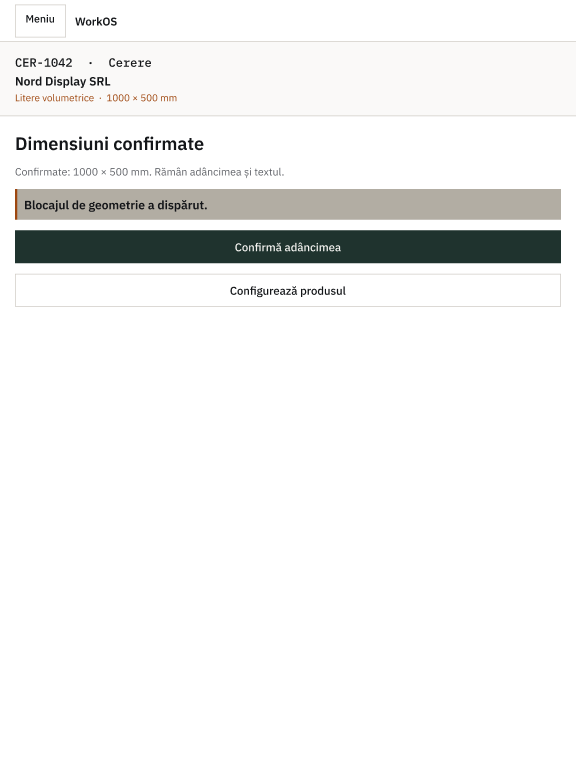
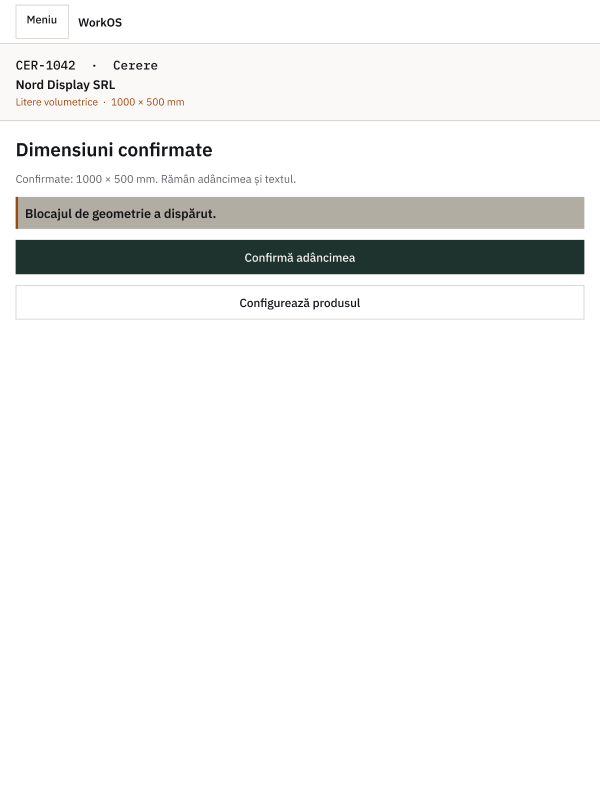
docs: amend UI20 R5A 768 compact shell continuity

diff --git a/docs/roadmap/WORKOS_V1_DELIVERY_ROADMAP.md b/docs/roadmap/WORKOS_V1_DELIVERY_ROADMAP.md
@@ -128,7 +128,7 @@ REQUESTS_INTEGRATED_ON_MAIN          = YES
 CERERI_PRODUCT_SHA                   = 03f2d747036b5ac219f283f5a969d575a9a707c9
 CERERI_OWNER_ACCEPT_RECORD           = ef4dd73514583bda2754456e2e5730ac96fc5f31
 NEXT_PROGRAM_PRIORITY                = WORKOS_UI_UX_2_0_E2E
-NEXT_RECOMMENDED_BUILD               = CHATGPT_INDEPENDENT_UI20_R5_REVIEW
+NEXT_RECOMMENDED_BUILD               = CHATGPT_INDEPENDENT_UI20_R5A_REVIEW
 UI20_PROGRAM                         = OWNER_AUTHORIZED_REFOUNDATION
 UI20_R1                              = RESEARCH_ACCEPTED_WITH_ADVISORIES
 UI20_R2                              = RESEARCH_ACCEPTED_WITH_ADVISORIES
@@ -141,6 +141,7 @@ UI20_R3_DOCUMENTATION                = DOCUMENTATION_READY
 UI20_R4                              = PAGE_PERSONALITY_AND_SEMANTIC_DYNAMICS_ACCEPTED_WITH_ADVISORIES
 UI20_R4A                             = ACCEPTED
 UI20_R5                              = NORTH_STAR_CONTINUITY_IN_REVIEW
+UI20_R5A                             = TARGETED_768_IN_REVIEW
 UI20_LEADING_VISUAL_HYPOTHESIS       = G_LIVING_FABRICATION_INSTRUMENT
 UI20_LEADING_IA_HYPOTHESIS           = IA3_QUIET_DESTINATIONS_OBJECT_CONTINUITY
 PRODUCT_SYSTEM_FC1B                  = SUPERSEDED_BEFORE_RUNTIME_IMPLEMENTATION
@@ -346,7 +347,7 @@ CERERI_RUNTIME = OWNER_ACCEPTED
 CERERI_INTEGRATED_ON_MAIN = YES
 REQUESTS_INTEGRATED_ON_MAIN = YES
 NEXT_PROGRAM_PRIORITY = WORKOS_UI_UX_2_0_E2E
-NEXT_RECOMMENDED_BUILD = CHATGPT_INDEPENDENT_UI20_R5_REVIEW
+NEXT_RECOMMENDED_BUILD = CHATGPT_INDEPENDENT_UI20_R5A_REVIEW
 UI20_PROGRAM = OWNER_AUTHORIZED_REFOUNDATION
 PRODUCT_SYSTEM_FC1B = SUPERSEDED_BEFORE_RUNTIME_IMPLEMENTATION
 UI20_CURRENT_VISUAL_DIRECTION = NOT_SELECTED
@@ -508,7 +509,7 @@ CERERI_RUNTIME                           = OWNER_ACCEPTED
 CERERI_INTEGRATED_ON_MAIN                = YES
 REQUESTS_INTEGRATED_ON_MAIN              = YES
 NEXT_PROGRAM_PRIORITY                    = WORKOS_UI_UX_2_0_E2E
-NEXT_RECOMMENDED_BUILD                   = CHATGPT_INDEPENDENT_UI20_R5_REVIEW
+NEXT_RECOMMENDED_BUILD                   = CHATGPT_INDEPENDENT_UI20_R5A_REVIEW
 UI20_PROGRAM                             = OWNER_AUTHORIZED_REFOUNDATION
 UI20_R1                                  = RESEARCH_ACCEPTED_WITH_ADVISORIES
 UI20_R2                                  = RESEARCH_ACCEPTED_WITH_ADVISORIES
@@ -690,7 +691,7 @@ Owner-authorized experience refoundation. Not a domain/backend rebuild. Not Prod
 ```text
 UI20_PROGRAM                      = OWNER_AUTHORIZED_REFOUNDATION
 NEXT_PROGRAM_PRIORITY             = WORKOS_UI_UX_2_0_E2E
-NEXT_RECOMMENDED_BUILD            = CHATGPT_INDEPENDENT_UI20_R5_REVIEW
+NEXT_RECOMMENDED_BUILD            = CHATGPT_INDEPENDENT_UI20_R5A_REVIEW
 UI20_R1                           = RESEARCH_ACCEPTED_WITH_ADVISORIES
 UI20_R2                           = RESEARCH_ACCEPTED_WITH_ADVISORIES
 UI20_R2_DOCUMENTATION             = DOCUMENTATION_READY
@@ -701,6 +702,7 @@ S1_A                              = STRUCTURAL_BASE_ACCEPTED
 UI20_R4                           = PAGE_PERSONALITY_AND_SEMANTIC_DYNAMICS_ACCEPTED_WITH_ADVISORIES
 UI20_R4A                          = ACCEPTED
 UI20_R5                           = NORTH_STAR_CONTINUITY_IN_REVIEW
+UI20_R5A                          = TARGETED_768_IN_REVIEW
 UI20_LEADING_VISUAL_HYPOTHESIS    = G_LIVING_FABRICATION_INSTRUMENT
 UI20_LEADING_IA_HYPOTHESIS        = IA3_QUIET_DESTINATIONS_OBJECT_CONTINUITY
 UI_GENERAL_REDESIGN_FOR_V1        = CLOSED_FOR_V1
@@ -718,7 +720,7 @@ HISTORICAL_FIGMA                  = 1ev5lg7m2Ze1h3Vqmax8ho
 
 `UI_GENERAL_REDESIGN = CLOSED_FOR_V1` remains the historical V3 closure. Living direction is the Owner UI20 reset. FC0/FC1 records stay evidence. Agents must not resume UI-FC1B React from older flags. R1 did not select a visual direction or IA.
 
-R2 is `RESEARCH_ACCEPTED_WITH_ADVISORIES`. UI20-R3 is `CHARACTER_PROOF_ACCEPTED_WITH_ADVISORIES`. S1-A is the accepted structural base. UI20-R4 is `PAGE_PERSONALITY_AND_SEMANTIC_DYNAMICS_ACCEPTED_WITH_ADVISORIES`. UI20-R4A is `ACCEPTED`. UI20-R5 is `NORTH_STAR_CONTINUITY_IN_REVIEW`. G and IA-3 remain the leading direction, not Owner-accepted final visual direction or IA. The next recommended step is `CHATGPT_INDEPENDENT_UI20_R5_REVIEW`.
+R2 is `RESEARCH_ACCEPTED_WITH_ADVISORIES`. UI20-R3 is `CHARACTER_PROOF_ACCEPTED_WITH_ADVISORIES`. S1-A is the accepted structural base. UI20-R4 is `PAGE_PERSONALITY_AND_SEMANTIC_DYNAMICS_ACCEPTED_WITH_ADVISORIES`. UI20-R4A is `ACCEPTED`. UI20-R5 is `NORTH_STAR_CONTINUITY_IN_REVIEW`. G and IA-3 remain the leading direction, not Owner-accepted final visual direction or IA. The next recommended step is `CHATGPT_INDEPENDENT_UI20_R5A_REVIEW`.
 
 Research record: `docs/worklog/WORKOS_UI_UX_2_0_E2E_R0_REFOUNDATION.md`, `docs/worklog/WORKOS_UI_UX_2_0_E2E_R1_DEEP_RESEARCH.md`, `docs/worklog/WORKOS_UI_UX_2_0_E2E_R2_ART_FABRICATION_SYNTHESIS.md`, `docs/worklog/WORKOS_UI_UX_2_0_E2E_R3_CHARACTER_PROOF.md`, `docs/worklog/WORKOS_UI_UX_2_0_E2E_R4_PAGE_PERSONALITY_DYNAMICS.md`, `docs/worklog/WORKOS_UI_UX_2_0_E2E_R5_NORTH_STAR_CONTINUITY.md`.
 

diff --git a/docs/worklog/WORKOS_UI_UX_2_0_E2E_R5_NORTH_STAR_CONTINUITY.md b/docs/worklog/WORKOS_UI_UX_2_0_E2E_R5_NORTH_STAR_CONTINUITY.md
@@ -4,6 +4,7 @@
 PROGRAM = WORKOS_UI_UX_2_0_E2E
 WAVE = UI20_R5_NORTH_STAR_E2E_OBJECT_CONTINUITY
 STATUS = NORTH_STAR_CONTINUITY_IN_REVIEW
+UI20_R5A = TARGETED_768_IN_REVIEW
 UI20_R4 = PAGE_PERSONALITY_AND_SEMANTIC_DYNAMICS_ACCEPTED_WITH_ADVISORIES
 UI20_R4A = ACCEPTED
 S1_A = STRUCTURAL_BASE_ACCEPTED
@@ -19,7 +20,7 @@ REACT = HOLD
 MASTER_POLISH = HOLD
 FIGMA_LIBRARY_PUBLISH = NO
 CURSOR_MAY_NOT_OWNER_ACCEPT = YES
-NEXT_STEP = CHATGPT_INDEPENDENT_UI20_R5_REVIEW
+NEXT_STEP = CHATGPT_INDEPENDENT_UI20_R5A_REVIEW
 ```
 
 ```text
@@ -84,11 +85,11 @@ Do not manufacture 8.5. Wiring is real. Whether the connected path feels like on
 
 | Criterion | Score | Note |
 | --- | ---: | --- |
-| CROSS_PAGE_CONTINUITY | 8.1 | Same-page NS prototype; object hierarchy holds |
+| CROSS_PAGE_CONTINUITY | 8.2 | Same-page NS prototype; 768 compact shell now matches |
 | WORKOS_SIGNATURE | 8.2 | Family + transformation; not unique if nouns swap |
-| PAGE_PERSONALITY | 8.3 | Instruments not flattened |
+| PAGE_PERSONALITY | 8.3 | Instruments not flattened; Config 768 keeps a part strip |
 | OPERATOR_SPEED | 8.3 | Next action stays local and 44px |
-| NAVIGATION_PLEASURE | 8.1 | Top nav is destination map; journey is not a second nav |
+| NAVIGATION_PLEASURE | 8.2 | Top nav is destination map; 768 uses Meniu, not desktop destinations |
 | GENERIC_SAAS_RISK | 2 | Connected screens, still research |
 | MUSEUM_RISK | 1 | No new motif |
 | DESIGNER_TOOL_RISK | 1 | Bench ≠ CAD; station ≠ HMI |
@@ -96,3 +97,19 @@ Do not manufacture 8.5. Wiring is real. Whether the connected path feels like on
 ## Holds
 
 React, library publish, Master Polish, and Owner accept of final visual direction / IA stay closed.
+
+## R5A — 768 compact shell
+
+Corrected in place. Not a new wave.
+
+| Surface | Node | Shell |
+| --- | --- | --- |
+| Cerere | `96:1267` | Meniu · kept |
+| Config | `96:1285` | Meniu · part strip `105:6` · return `105:15` → `96:1267` |
+| Ofertă | `96:1306` | desktop Destinations hidden · MobileChrome `105:2` |
+| Lucrare | `96:1366` | Meniu · kept |
+| Atelier | `96:1405` | Meniu · kept · row actions 44px |
+| Exec | `96:1431` | Meniu · return `99:4` → `96:1366` |
+| Shell comparison | `106:2` | six compact headers |
+
+Advisory: 768 Ofertă freeze still opens Lucrare (`96:1366`); there is no frozen 768 sibling. Ofertă stays denser than the other instruments. Cerere / Config chrome still say WorkOS; those frames already passed and were not redesigned.

diff --git a/docs/worklog/ui20-r5/10-decision-matrix.md b/docs/worklog/ui20-r5/10-decision-matrix.md
@@ -4,11 +4,11 @@ Cursor estimates after the connected prototype. Not Owner truth. Do not manufact
 
 | Criterion | Score | Note |
 | --- | ---: | --- |
-| CROSS_PAGE_CONTINUITY | 8.1 | One-page NS prototype; personality sources stay on 10/20 |
+| CROSS_PAGE_CONTINUITY | 8.2 | One-page NS prototype; 768 shell now coherent |
 | PAGE_PERSONALITY | 8.3 | Six instruments remain classifiable |
 | WORKOS_SIGNATURE | 8.2 | Object + transformation; noun-swap still partly works |
 | OPERATOR_SPEED | 8.3 | Next action local |
-| NAVIGATION_PLEASURE | 8.1 | Top nav ≠ journey strip |
+| NAVIGATION_PLEASURE | 8.2 | Top nav ≠ journey strip; 768 Meniu only |
 | FIRST_3_SECONDS | 8.3 | Object / where / work / next parse first |
 | GENERIC_SAAS_RISK | 2 | |
 | MUSEUM_RISK | 1 | |
@@ -19,8 +19,8 @@ Six-up `99:407` (wordmark / H1 / accent off): instruments stay classifiable and 
 North Star character test: the path is one fixture through dedicated instruments, not six unrelated SaaS pages. It is not yet a finished product OS. Independent review decides.
 
 ```text
-G_POST_R5 = LEADING_DIRECTION_FOR_R5 / NOT_OWNER_ACCEPTED
-IA3_POST_R5 = LEADING_DIRECTION_FOR_R5 / NOT_OWNER_ACCEPTED
-CURSOR_RECOMMENDATION = HOLD_FOR_INDEPENDENT_REVIEW
-NEXT_STEP = CHATGPT_INDEPENDENT_UI20_R5_REVIEW
+G_POST_R5A = LEADING_DIRECTION / NOT_OWNER_ACCEPTED
+IA3_POST_R5A = LEADING_DIRECTION / NOT_OWNER_ACCEPTED
+CURSOR_RECOMMENDATION = HOLD_FOR_INDEPENDENT_R5A_REVIEW
+NEXT_STEP = CHATGPT_INDEPENDENT_UI20_R5A_REVIEW
 ```

diff --git a/docs/worklog/ui20-r5/06-responsive-dark.md b/docs/worklog/ui20-r5/06-responsive-dark.md
@@ -6,7 +6,21 @@
 | 1280 | `96:877` | `96:960` | `96:1046` | `96:1106` | `96:1165` | `96:1234` |
 | 768 | `96:1267` | `96:1285` | `96:1306` | `96:1366` | `96:1405` | `96:1431` |
 
-768 keeps Meniu, current object, current work, next 44px action, and a return path. Ofertă 1280/768 are width-adapted clones of the 1440 artifact, not a second aesthetic. Config 768 compresses the bench to depth confirmation plus Pregătește oferta. Exec 768 is 900 tall and now shows LUC-88 in MobileChrome.
+R5A: all six 768 instruments use a compact shell. Live proof, not a documentation claim.
+
+| Check | Live |
+| --- | --- |
+| Meniu | PASS on all six |
+| Desktop destination row | NO — Ofertă Destinations `96:1307` hidden |
+| Current object | PASS |
+| Current work / state | PASS |
+| Primary ≥ 44px | PASS |
+| Config return | `105:15` → `96:1267` |
+| Exec return | `99:4` → `96:1366` |
+| Config construction cue | Față / **Volum** / Spate / Iluminare `105:6` |
+| Ofertă density | denser than siblings; line wraps; value stays dominant |
+
+Ofertă 1280 remains a width-adapted 1440 clone. Exec 768 is 900 tall and shows LUC-88 in MobileChrome. Shell comparison: `106:2`.
 
 Dark continuity trio:
 

diff --git a/docs/worklog/ui-20/FRAMES.md b/docs/worklog/ui-20/FRAMES.md
@@ -9,6 +9,7 @@ S1_A = STRUCTURAL_BASE_ACCEPTED
 R4_STATUS = PAGE_PERSONALITY_AND_SEMANTIC_DYNAMICS_ACCEPTED_WITH_ADVISORIES
 R4A = ACCEPTED
 R5_STATUS = NORTH_STAR_CONTINUITY_IN_REVIEW
+R5A_STATUS = TARGETED_768_IN_REVIEW
 FIGMA_FILE = WorkOS UI UX 2.0 — E2E
 FIGMA_FILE_KEY = 0XP0yGa1siWQdTTL7ou8xz
 FIGMA_URL = https://www.figma.com/design/0XP0yGa1siWQdTTL7ou8xz
@@ -208,6 +209,11 @@ Personality sources stay on 10 / 20. Connected prototype is clones on 80. Fixtur
 | Lucrare dark | `96:1517` |
 | Exec advanced dark | `96:1576` |
 | Six-up logo/H1/accent off | `99:407` |
+| Ofertă 768 MobileChrome | `105:2` |
+| Config 768 construction parts | `105:6` |
+| Config 768 Înapoi la cerere | `105:15` → `96:1267` |
+| Exec 768 Înapoi la lucrare | `99:4` → `96:1366` |
+| 768 shell comparison | `106:2` |
 
 ## R5 connected verbs (page 80)
 

diff --git a/docs/architecture/WORKOS_UI_UX_DIRECTION_CANON.md b/docs/architecture/WORKOS_UI_UX_DIRECTION_CANON.md
@@ -162,7 +162,8 @@ S1_A                               = STRUCTURAL_BASE_ACCEPTED
 UI20_R4                            = PAGE_PERSONALITY_AND_SEMANTIC_DYNAMICS_ACCEPTED_WITH_ADVISORIES
 UI20_R4A                           = ACCEPTED
 UI20_R5                            = NORTH_STAR_CONTINUITY_IN_REVIEW
-NEXT_RECOMMENDED_BUILD             = CHATGPT_INDEPENDENT_UI20_R5_REVIEW
+UI20_R5A                           = TARGETED_768_IN_REVIEW
+NEXT_RECOMMENDED_BUILD             = CHATGPT_INDEPENDENT_UI20_R5A_REVIEW
 PRODUCT_SYSTEM_FC1B                = SUPERSEDED_BEFORE_RUNTIME_IMPLEMENTATION
 A3_1                               = RESEARCH_INPUT_NOT_CANON
 OS_S8                              = HOLD_UNTIL_UI20_E2E_DIRECTION_AND_IMPLEMENTATION_CLOSURE

diff --git a/docs/worklog/ui20-r5/05-navigation-return-command.md b/docs/worklog/ui20-r5/05-navigation-return-command.md
@@ -5,7 +5,9 @@ Top nav remains the destination map. Journey position is not a second global nav
 | Return | Source | Dest | Preserved |
 | --- | --- | --- | --- |
 | Config → Cerere | Înapoi la cerere | resolved CER-1042 | object + known/missing |
+| Config 768 → Cerere 768 | `105:15` | `96:1267` | resolved CER-1042 · Dimensiuni confirmate |
 | Exec → Lucrare | Înapoi la lucrare | LUC-88 | traveler position |
+| Exec 768 → Lucrare 768 | `99:4` | `96:1366` | LUC-88 traveler |
 | Atelier → Exec → Lucrare | Continuă / back | station then traveler | LUC-88 |
 
 ```text

diff --git a/docs/worklog/ui20-r5/07-accessibility.md b/docs/worklog/ui20-r5/07-accessibility.md
@@ -9,7 +9,8 @@
 | Reduced motion | End-state frames remain readable; MOTION_OFF Ofertă `73:837` / `73:897` |
 | Headings | Object, then current work, then action |
 | Romanian | Diacritics; no poetic meta copy |
-| Overflow / clipping | 768 Meniu chrome kept; Ofertă 768 is a width-adapted 1440 clone and stays dense |
+| Overflow / clipping | 768 compact shell; Ofertă stays dense and wraps the commercial line |
+| 768 menu | Meniu is conceptual open/close. No permanent left nav |
 
 ```text
 FIGMA_MANUAL_MOTION_DEMO_TIMELINES = MAY_LOOP_FOR_RESEARCH_PLAYBACK
